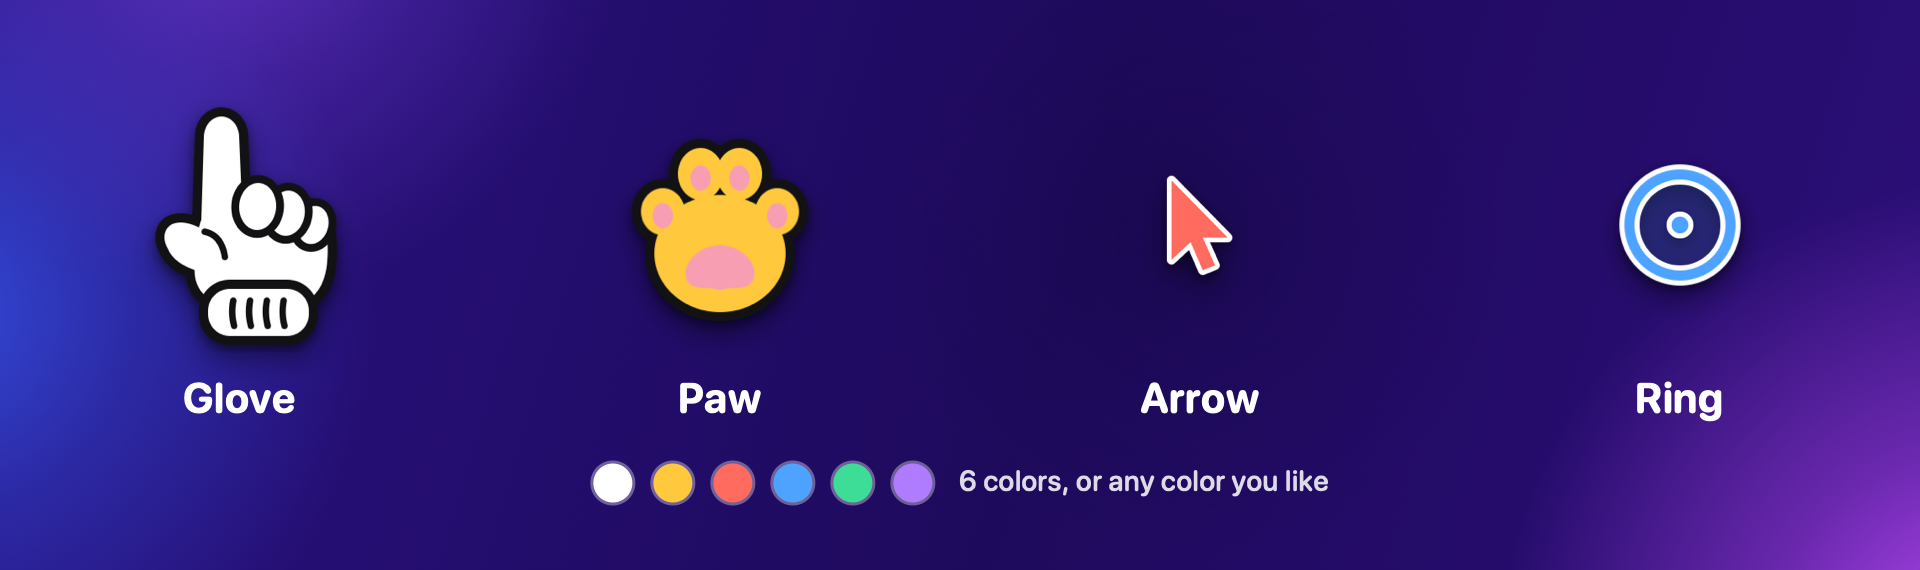
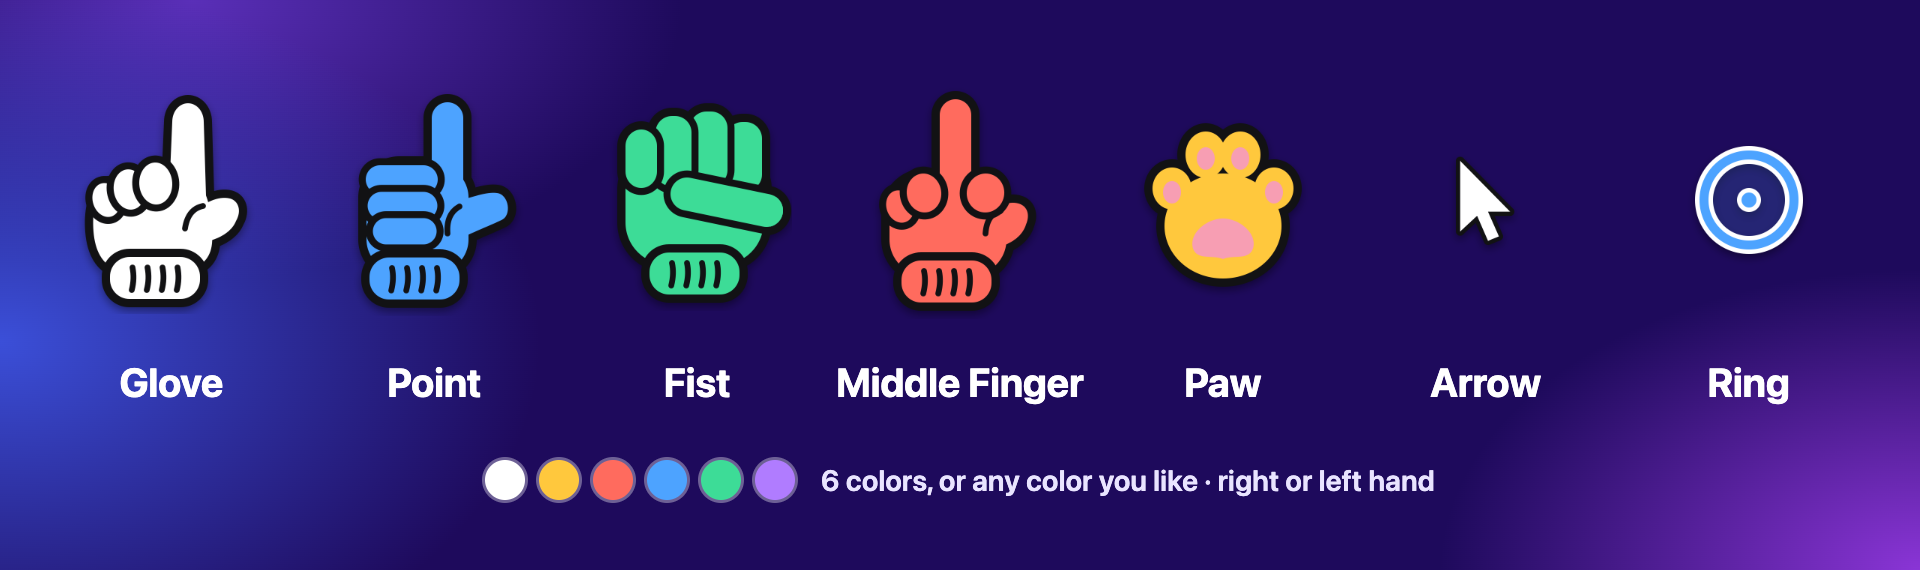
Three new hands, right or left hand, and the new pointer styles image

diff --git a/README.md b/README.md
@@ -31,7 +31,7 @@ Every click lands with a tap people can see and hear, so everyone on your call, 
 
 Screen shares shrink your cursor to a speck. Reach Extender gives it a body.
 
-- **A pointer people can follow.** A white glove on a long stick that swings as you move, or pick a paw, an arrow or a ring. Six preset colors (or any color you like), sized from subtle to projector-huge.
+- **A pointer people can follow.** A white glove on a long stick that swings as you move. Swap it for a point with the thumb out, a fist, a middle finger for the meeting that won't end, a paw, an arrow or a ring. Right hand or left, six preset colors (or any color you like), sized from subtle to projector-huge.
 - **Every click is a tap.** The glove winds up and strikes on each click. Keep clicking quickly and the flashes build: sparkle, burst, big burst, star, splat.
 - **Ink that picks its own color.** Automatic flash color goes black or white depending on what's under the click, so it shows up on a white slide and a dark editor alike.
 - **A tap you can hear.** Tap, knock, tick or pop, or load your own sound. Share system audio and your viewers hear it too.
@@ -43,7 +43,7 @@ Screen shares shrink your cursor to a speck. Reach Extender gives it a body.
 - **Out of your way.** It lives in the menu bar with no Dock icon, and it can open at login.
 
 <p align="center">
-  <img src="assets/pointer-styles.png" width="100%" alt="The four pointer styles: Glove, Paw, Arrow and Ring, and six preset colors">
+  <img src="assets/pointer-styles.png" width="100%" alt="The seven pointer styles: Glove, Point, Fist, Middle Finger, Paw, Arrow and Ring, and six preset colors">
 </p>
 
 <p align="center">

diff --git a/CHANGELOG.md b/CHANGELOG.md
@@ -15,7 +15,8 @@ The first public release, for macOS 14 Sonoma and later.
 ### Added
 
 - **Animated pointer** that replaces the macOS cursor, drawn on a see-through, click-through layer above every app, so clicks land exactly where they always do.
-- **Four pointer styles:** a cartoon glove, a paw, an arrow and a ring.
+- **Seven pointer styles:** four cartoon hands (the glove, a point with the thumb out, a fist and a middle finger), a paw, an arrow and a ring.
+- **Right or left hand:** the right hand reaches in from the bottom right (the default); the left hand mirrors it from the bottom left.
 - **Six preset colors** (white, yellow, coral, blue, green, purple), plus any custom color.
 - **Size slider**, from small to huge.
 - **The arm:** a long stick that reaches up from below the screen and swings as you move. You can turn it off.
